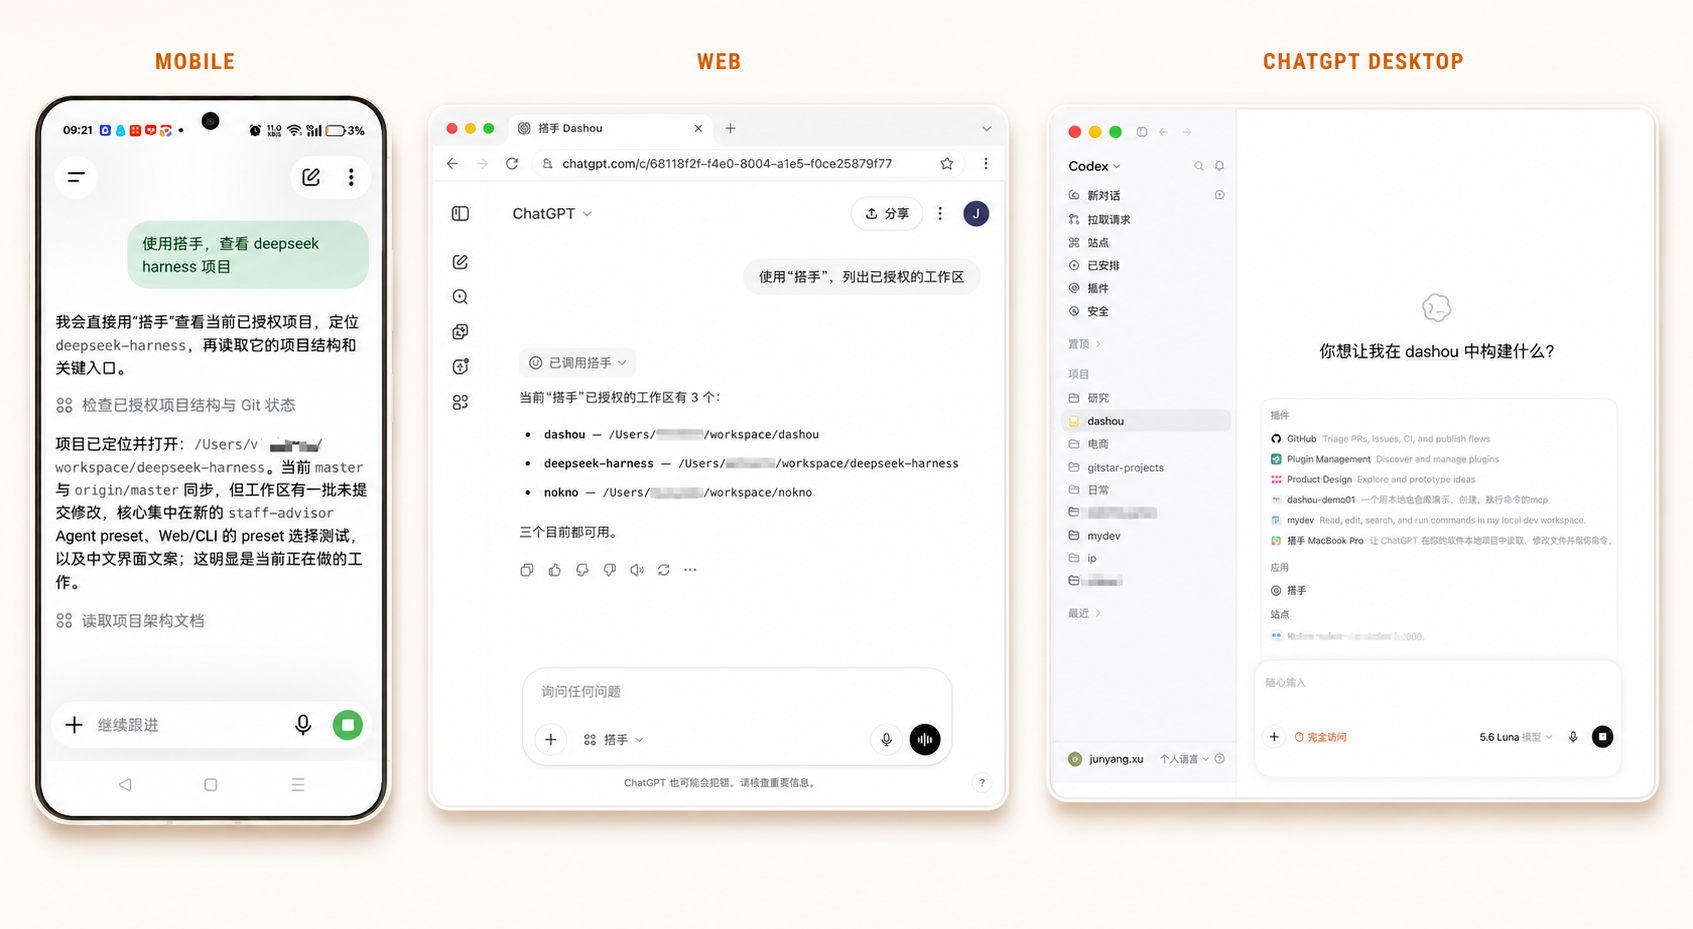
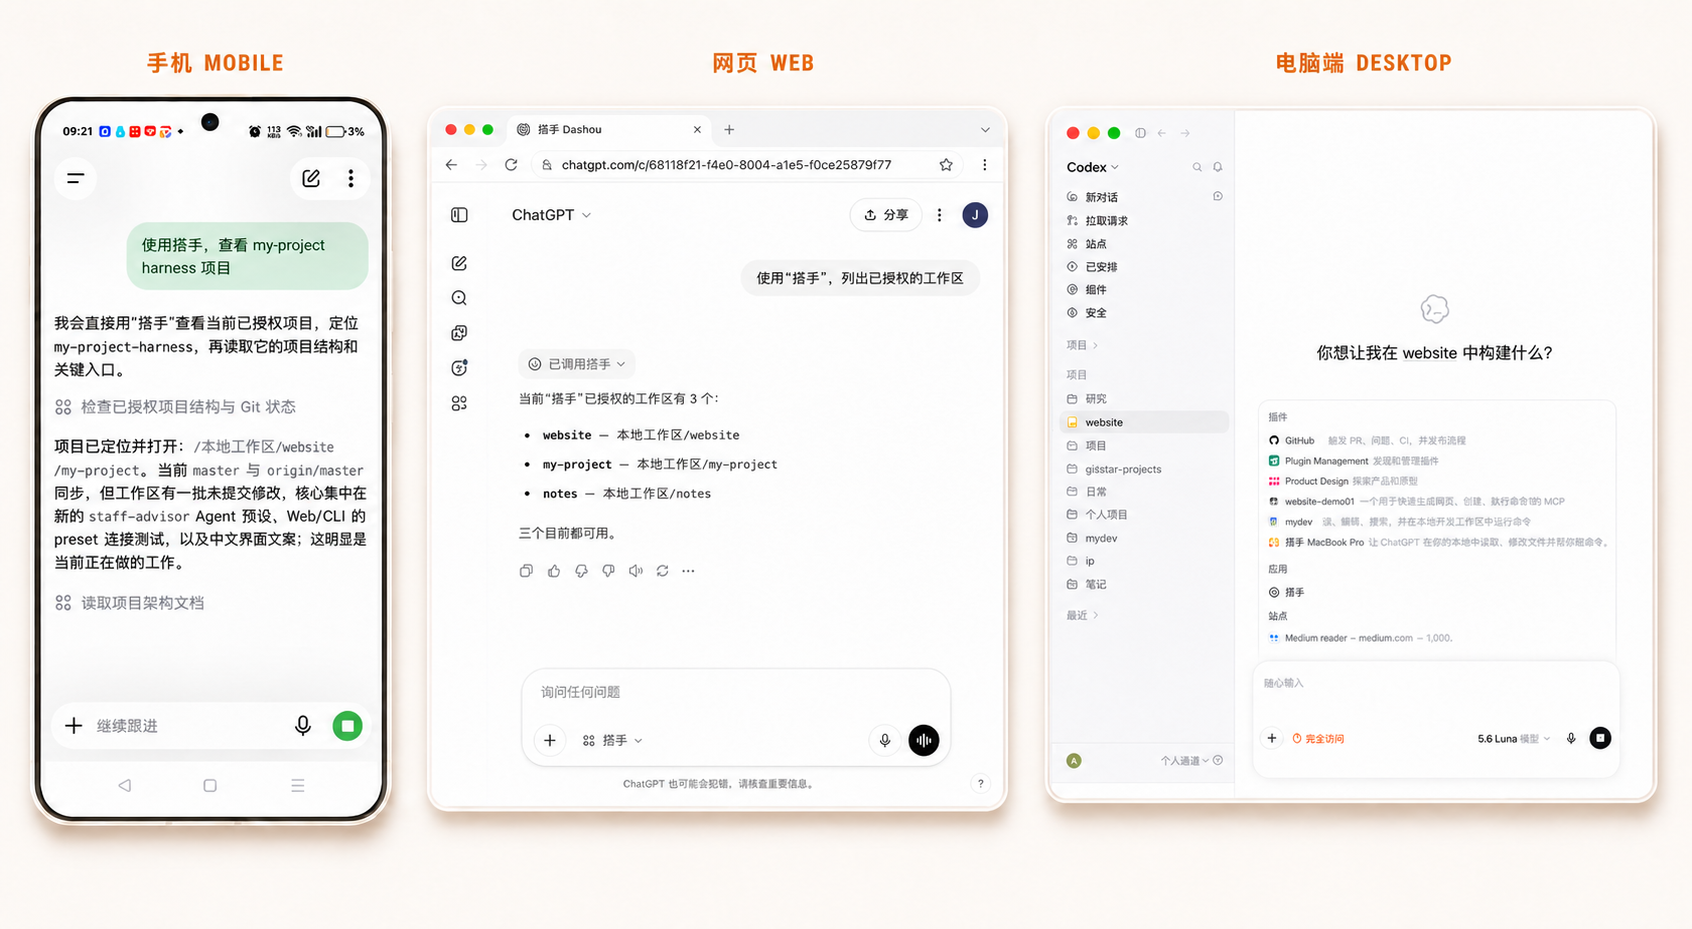
docs: simplify Dashou onboarding guide

diff --git a/README.md b/README.md
@@ -1,107 +1,71 @@
 # 搭手 Dashou
 
-## 让 ChatGPT 直接帮你处理本地项目
+## ChatGPT 会聊天，搭手让它真正干活
 
-搭手是一款可以连接你本地电脑的智能体工具。授权后，ChatGPT 可以在你选择的工作文件夹里读取项目、修改代码、运行命令和执行测试。
+搭手让 ChatGPT 连接你的本地电脑。完成授权后，ChatGPT 可以在你选择的文件夹里读取项目、修改代码、运行命令和完成测试。
 
-你不需要在 ChatGPT 和电脑之间反复复制粘贴，也不必手动整理上下文。只要用自然语言说清楚想做什么，搭手就会在本地帮你完成，并把结果带回聊天中。
+你不需要在 ChatGPT 和电脑之间反复复制粘贴，也不需要先学会命令行。你只要说清楚想做什么，搭手就会把结果带回聊天中。
 
-目前是小范围体验。你选择哪些文件夹，就决定 ChatGPT 可以使用哪些项目；请只选择你愿意授权的工作文件夹。
+目前是小范围体验。请只选择你愿意让 ChatGPT 使用的工作文件夹。
+
+**你只需要准备：**
+
+- 一台 Mac 或 Windows 电脑；
+- 一个 ChatGPT 账号；
+- 一个你愿意授权的工作文件夹。
+
+**你不需要准备：**
+
+- Node.js 或其他运行环境；
+- 终端命令；
+- 网络、服务器或其他技术设置。
+
+**[下载最新版本](https://github.com/winston003/dashou-releases/releases/latest)**
 
 ![搭手 Dashou：让 ChatGPT 直接进入本地项目工作](images/dashou-promo.png)
 
-**体验地址：** [下载最新版本](https://github.com/winston003/dashou-releases/releases/latest)
+## 开始使用，只需要三步
 
-如有问题，请联系我微信。感谢你的体验和反馈。
+### 第一步：安装搭手，选择工作文件夹
 
-## 一个搭手，三种使用方式
+1. 从[最新版本页面](https://github.com/winston003/dashou-releases/releases/latest)下载适合你电脑的安装包；
+2. 安装并打开 **搭手 Dashou**；
+3. 点击 **加入试用**；
+4. 点击 **添加文件夹**，选择一个或多个工作文件夹；
+5. 点击 **开始使用**；
+6. 点击 **去 ChatGPT 连接**。
 
-搭手准备好以后，使用同一个 ChatGPT 账号，你可以从不同入口继续处理自己的项目：
+搭手会自动准备连接，并打开 ChatGPT 页面。你不需要填写地址或其他技术信息。
 
-- **手机 ChatGPT**：随时查看项目、阅读文件和继续对话；
-- **电脑端 ChatGPT / Codex**：适合持续修改、检查和运行项目任务；
-- **网页 ChatGPT**：适合完整查看工作过程和任务结果。
+**完成标志：**搭手页面显示已经准备好，ChatGPT 页面已经打开。
 
-无论从哪里开始，搭手连接的都是你亲自选择的本地文件夹。进入聊天后选中 **搭手**，再用自然语言告诉它你想做什么。
+#### macOS 第一次打开
 
-![手机、电脑和网页都可以使用搭手](images/dashou-three-screens.png)
+如果 macOS 提示“无法验证开发者”：
 
-三张单独的示例图也保留在仓库中：
-
-- [手机 ChatGPT](images/promo-mobile.jpg)
-- [电脑端 ChatGPT / Codex](images/promo-desktop.png)
-- [网页 ChatGPT](images/promo-web.png)
-
-## 下载
-
-请从 [最新版本页面](https://github.com/winston003/dashou-releases/releases/latest) 下载。
-
-根据你的电脑选择：
-
-- **Mac Apple Silicon**：M1、M2、M3、M4；
-- **Mac Intel**：Intel 处理器的 Mac；
-- **Windows**：Windows 安装包。
-
-请不要从其他网站下载，也不要把自己的连接地址或连接密码发给别人。
-
-## macOS 安装
-
-当前免费体验包还没有 Apple 官方签名和公证。第一次打开时，macOS 可能会提示“无法验证开发者”。这不是搭手服务故障。
-
-1. 双击下载的 `.dmg` 文件；
-2. 把 **Dashou** 拖到 **Applications（应用程序）**；
-3. 打开“应用程序”文件夹；
-4. 对 Dashou 点右键，选择 **打开**；
-5. macOS 再询问一次时，点击 **打开**。
+1. 打开“应用程序”文件夹；
+2. 对 **Dashou** 点右键，选择 **打开**；
+3. 再点击一次 **打开**。
 
 ![macOS 安装窗口](images/00-macos-install-window.jpg)
 
-只需要这样确认一次。之后通常可以直接打开搭手。
+只需要确认一次。不要关闭 Mac 的整体安全检查，也不需要打开终端。
 
-如果仍然打不开，请把提示窗口截图发给客服。不要关闭 Mac 的整体安全检查，也不需要打开终端输入命令。
+#### Windows 安装
 
-## Windows 安装
+双击 Windows 安装包，按安装向导完成安装，然后打开 **搭手 Dashou**。
 
-双击 Windows 安装包，按安装向导完成安装，然后打开 **搭手 Dashou**。Windows 版本不需要安装额外的运行环境。
+### 第二步：把搭手添加到 ChatGPT
 
-## 第一步：在搭手里准备这台电脑
+如果 ChatGPT 已经显示“创建应用”，直接继续。如果没有看到：
 
-打开搭手后，按顺序操作：
-
-1. 点击 **加入试用**；
-2. 等待页面显示准备进度；
-3. 准备完成后，点击 **添加文件夹**；
-4. 选择一个或多个工作文件夹；
-5. 点击 **开始使用**。
-
-搭手会自动完成连接准备，你不需要填写地址或其他技术信息。
-
-完成后点击 **去 ChatGPT 连接**。搭手会自动复制这台电脑的连接地址，并打开 ChatGPT 页面。
-
-> 截图里的 `device-...warmbyte.studio/mcp` 只是示例。每台电脑的地址都不同，请使用搭手自动复制的地址。
-
-## 第二步：打开 ChatGPT 的开发者模式
-
-如果你已经能看到“创建应用”，可以直接跳到下一节。
-
-如果看不到：
-
-1. 打开 ChatGPT；
-2. 进入 **设置**；
-3. 点击 **插件**；
-4. 打开 **开发者模式**。
+1. 打开 ChatGPT **设置**；
+2. 点击 **插件**；
+3. 打开 **开发者模式**。
 
 ![进入 ChatGPT 插件设置](images/01-developer-mode-settings.png)
 
-在开发者模式页面打开需要的开关，然后返回 ChatGPT 的个人插件页面：
-
-![打开 ChatGPT 开发者模式](images/02-developer-mode-switch.png)
-
-直接入口：[ChatGPT 插件设置](https://chatgpt.com/plugins?view=personal)
-
-如果你使用的是工作区账号，可能需要工作区管理员在工作区设置中允许创建应用。
-
-## 第三步：把搭手添加到 ChatGPT
+开发者模式的入口：[打开 ChatGPT 插件设置](https://chatgpt.com/plugins?view=personal)
 
 在 ChatGPT 的插件页面：
 
@@ -123,69 +87,53 @@
 
 ![填写搭手连接地址](images/04-paste-url.png)
 
-不要手动修改地址，也不要照抄截图中的示例地址。
+“OAuth”只是页面上的一个选项，照图选择即可，不需要理解这个词。不要照抄截图里的示例地址；每台电脑的地址都不同。
 
-## 第四步：完成连接
-
-创建后，ChatGPT 会打开搭手连接页面。点击：
-
-**使用搭手登录**
+创建后，点击 **使用搭手登录**：
 
 ![使用搭手登录](images/05-use-dashou-login.png)
 
-随后会打开搭手授权页面。
-
-回到搭手窗口，点击 **复制授权密码**；再回到浏览器，把密码粘贴到“连接密码”输入框，然后点击 **允许连接**。
+回到搭手窗口，点击 **复制授权密码**；再回到浏览器，把密码粘贴到“连接密码”输入框，点击 **允许连接**。
 
 ![复制授权密码并允许连接](images/06-copy-password-allow.png)
 
-这是这台电脑的连接密码，只在你自己的 ChatGPT 页面使用。不要把它发到聊天、Issue 或公开页面。
+这是这台电脑的连接密码，只在你自己的 ChatGPT 页面使用。不要把它发给别人，也不要发到聊天或公开页面。
 
-## 第五步：确认权限
+**完成标志：**ChatGPT 的应用列表里出现 **搭手**。
 
-连接完成后，在 ChatGPT 中打开：
+### 第三步：在聊天中选择搭手
 
-**设置 → 插件 → 搭手**
-
-根据你想做的事情选择权限：
-
-- 只想查看项目：先保留较少权限；
-- 想让 ChatGPT 新增或修改文件：开启对应的写入权限；
-- 想让 ChatGPT 运行项目命令：请先确认命令内容和运行结果。
-
-![查看搭手权限](images/07-plugin-permissions.png)
-
-每次让 ChatGPT 修改文件或运行命令前，都建议先看清楚它准备做什么。
-
-## 第六步：在聊天中使用搭手
-
-回到 ChatGPT 的插件页面，确认“搭手”已经出现在“我创建的”列表中：
+先确认“搭手”出现在“我创建的”列表中：
 
 ![确认搭手已添加](images/08-plugin-list.png)
 
-然后进入 **聊天**，打开消息输入框下方的插件入口，选择 **搭手**：
+然后进入 **聊天**，打开输入框下方的插件入口，选择 **搭手**：
 
 ![在聊天页面选择搭手](images/09-chat-mode.png)
 
-确认输入框附近出现搭手图标后，就可以开始说你的任务：
-
-![搭手已在聊天中启用](images/10-select-dashou.png)
-
-第一次使用建议先做一个只读任务：
+确认输入框附近出现搭手图标后，发送第一条消息：
 
 ```text
 请列出我已经选择的项目，并告诉我每个项目所在的文件夹名称。先不要修改任何文件。
 ```
 
-确认连接正常后，再进行具体工作，例如：
+![搭手已在聊天中启用](images/10-select-dashou.png)
 
-```text
-请检查这个项目的 README，告诉我最适合先改进的地方，先不要修改文件。
-```
+**完成标志：**ChatGPT 能列出你刚才选择的项目。
+
+## 一次连接，三种使用方式
+
+同一个 ChatGPT 账号，可以从不同入口继续处理搭手连接的工作文件夹：
+
+- **手机**：随时查看项目、阅读文件和继续对话；
+- **网页**：适合完整查看工作过程和任务结果；
+- **电脑端**：适合持续修改、检查和运行项目任务。
+
+![手机、网页和电脑端都可以使用搭手](images/dashou-three-screens.png)
 
 ## 你可以让搭手做什么
 
-你可以直接用自然语言提出任务，例如：
+你可以直接用自然语言提出任务：
 
 ```text
 请阅读这个项目，告诉我它是做什么的，以及从哪里开始运行。
@@ -207,73 +155,62 @@
 - 只有你选择的文件夹会作为项目提供给 ChatGPT；
 - 你可以随时添加或移除文件夹；
 - 搭手不会要求你把本地文件发送给客服；
-- 不要把连接地址或连接密码发到公开地方；
-- ChatGPT 可能会在修改文件或运行命令前请求确认，请认真查看确认内容。
+- ChatGPT 修改文件或运行命令前，可能会先请求确认，请看清楚它准备做什么。
 
-你始终可以做主：不确定时，先让 ChatGPT“只读检查，不要修改”。
-
-## 关闭和重新打开搭手
-
-关闭窗口不会停止搭手。它会收起到 macOS 顶部菜单栏，连接会继续运行。
-
-- 想重新打开：点击顶部菜单栏的搭手图标；
-- 想真正停止：点击搭手图标，选择 **退出搭手**。
-
-Windows 用户关闭窗口后，也可以从开始菜单重新打开搭手。
+你始终可以做主。不确定时，先让 ChatGPT **只读检查，不要修改**。
 
 ## 常见问题
 
-### macOS 提示“无法验证 Dashou”
-
-这是免费体验包的正常提示。请在“应用程序”中对 Dashou 点右键，选择“打开”，再点击一次“打开”。不要关闭 Mac 的整体安全检查。
-
 ### 找不到“创建应用”
 
-先打开 ChatGPT **设置 → 插件 → 开发者模式**。如果仍然没有，可能是账号类型或工作区设置暂未开放自定义连接，请联系工作区管理员。
+打开 ChatGPT **设置 → 插件 → 开发者模式**。如果仍然没有，可能是账号类型或工作区设置暂未开放自定义连接，请联系工作区管理员。
 
 ### 点击“加入试用”后没有变化
 
-先等待页面显示结果，再重新打开搭手查看状态。如果仍然没有反应，点击页面上的 **复制排查信息**，把这段排查信息发给客服。不要发送连接密码、完整日志或账户文件。
+先等待页面显示结果，再重新打开搭手查看状态。如果仍然没有反应，点击页面上的 **复制排查信息**，把排查信息发给客服。不要发送连接密码、完整日志或账户文件。
 
 ### ChatGPT 看不到我的项目
 
-回到搭手确认：
+请依次确认：
 
-1. 试用已经准备完成；
-2. 已经选择了正确的一个或多个文件夹；
+1. 搭手已经准备完成；
+2. 已选择正确的一个或多个文件夹；
 3. ChatGPT 中已经选中了搭手；
 4. 连接仍然显示为已连接。
 
-可以先发送：
-
-```text
-请列出我已经选择的项目。
-```
-
-### 连接密码不正确
-
-回到搭手重新点击 **复制授权密码**，不要使用旧截图或旧密码。然后回到当前连接页面重新粘贴。
-
-### 我想更换本地目录
-
-在搭手中打开文件夹设置，添加或移除文件夹，再回到 ChatGPT 发送：
+然后发送：
 
 ```text
 请重新列出我已经选择的项目。
 ```
 
-没有选择的文件夹不会作为项目提供给搭手。
+### 连接密码不正确
 
-## 更新
+回到搭手重新点击 **复制授权密码**，不要使用旧截图或旧密码，再回到当前连接页面重新粘贴。
 
-搭手会在客户端中检查新版本。安装包和更新文件只从本仓库的 [最新版本页面](https://github.com/winston003/dashou-releases/releases/latest) 获取。
+### 我想更换本地目录
 
-每个版本的发布说明会写明最近改了什么、适用的平台和已知限制。更新时不要删除搭手的设置和连接状态，除非客服明确要求这样做。
+在搭手中打开文件夹设置，添加或移除文件夹，再回到 ChatGPT 重新列出项目。没有选择的文件夹不会作为项目提供给搭手。
 
-## 给朋友或客服的一句话
+## 关闭和更新
 
-请先打开搭手的[最新版本页面](https://github.com/winston003/dashou-releases/releases/latest)，下载适合你电脑的安装包。安装后点击“加入试用”，选择一个或多个工作文件夹，再点击“去 ChatGPT 连接”。连接完成后，在 ChatGPT 的聊天中选择“搭手”，直接说出你想做的事情即可。
+关闭窗口不会停止搭手。macOS 上它会收起到顶部菜单栏；点击搭手图标可以重新打开，选择 **退出搭手** 才会真正停止。
+
+搭手会在客户端中检查新版本。安装包和更新文件只从本仓库的[最新版本页面](https://github.com/winston003/dashou-releases/releases/latest)获取。
+
+## 如果你让其他 AI 帮你安装
+
+可以把本 README 交给你信任的 AI 助手，并让它：
+
+1. 先确认你使用的是 macOS 还是 Windows；
+2. 一次只带你完成一个步骤；
+3. 每一步都等你看到“完成标志”后再继续；
+4. 不索要你的连接密码、账号密码或本地文件。
+
+## 联系方式
+
+如果使用中遇到问题，请联系发送这份说明给你的微信联系人。感谢你的体验和反馈。
 
 ## 版本说明
 
-本仓库只放公开发布包和面向用户的使用说明。发布页面会持续补充每个版本的更新内容和已知问题。
+本仓库只放公开发布包和面向用户的使用说明。每个 Release 页面会写明最近改了什么、适用的平台和已知问题。
